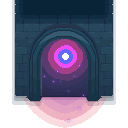
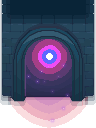
Testing texture re-scaling

diff --git a/obstacles.cpp b/obstacles.cpp
@@ -28,8 +28,8 @@ void Obstacles::LoadTextures()
 bool Obstacles::IsPositionValid(int x, int y, const Grid& grid) const
 {
     if (x < 0 || y < 0 ||
-        x + OBSTACLES_PADDING > Grid::GetWidth() ||
-        y + OBSTACLES_PADDING > Grid::GetHeight())
+        x + OBSTACLES_PADDING + OBSTACLES_PADDING > Grid::GetWidth() ||
+        y + OBSTACLES_PADDING + OBSTACLES_PADDING > Grid::GetHeight())
     {
         return false;
     }
@@ -168,6 +168,8 @@ void Obstacles::DrawObstacles() const
         float screenY = obstacle.y * Cell::CELL_SIZE;
 
         Vector2 position = { screenX, screenY };
+
+        SetTextureFilter(obstacleTextures[obstacle.textureId], TEXTURE_FILTER_POINT);
         DrawTextureEx(obstacleTextures[obstacle.textureId], position, 0, 2.0f, WHITE);
     }
 }

diff --git a/include/enemySpawner.h b/include/enemySpawner.h
@@ -16,10 +16,11 @@ class Enemy;
 class EnemySpawner
 {
 private:
-    static constexpr int ENEMY_SPAWNER_SIZE { 4 };
+    static constexpr int ENEMY_SPAWNER_SIZE { 3 };
     static constexpr int ENEMY_SPAWNER_VALUE_ID { 10 };
-    static constexpr float ENEMY_SPAWNER_INTERVAL { 3.0f }; // Every X seconds
-    static constexpr float SPAWN_POINT_X { 2 };
+    static constexpr float ENEMY_SPAWNER_INTERVAL { 5.0f }; // Every X seconds
+
+    static constexpr float SPAWN_POINT_X { 1 };
     static constexpr float SPAWN_POINT_Y { 3 };
 
     Texture2D texture { 0 };

diff --git a/include/grid.h b/include/grid.h
@@ -9,8 +9,8 @@ class Grid
 {
 private:
     static constexpr int MAX_GRID_TEXTURES { 11 };
-    static constexpr int GRID_WIDTH { 25 };
-    static constexpr int GRID_HEIGHT { 17 };
+    static constexpr int GRID_WIDTH { 21 };
+    static constexpr int GRID_HEIGHT { 15 };
 
     void CheckBounds(int x, int y) const;
     void DrawCell(int id, int x, int y) const;

diff --git a/grid.cpp b/grid.cpp
@@ -62,6 +62,7 @@ void Grid::DrawCell(int id, int x, int y) const
         Vector2 position = { static_cast<float>(x), static_cast<float>(y) };
 
         // art 32x, render at 2x size
+        SetTextureFilter(textures[id], TEXTURE_FILTER_POINT);
         DrawTextureEx(textures[id], position, 0, 2.0f, WHITE);
     }
 }

diff --git a/spire.cpp b/spire.cpp
@@ -36,6 +36,8 @@ void Spire::Draw() const
         float screenY = gridY * Cell::CELL_SIZE;
 
         Vector2 position = { screenX, screenY };
+
+        SetTextureFilter(texture, TEXTURE_FILTER_POINT);
         DrawTextureEx(texture, position, 0, 2.0f, WHITE);
     }
 }

diff --git a/enemy.cpp b/enemy.cpp
@@ -58,6 +58,7 @@ void Enemy::Draw() const
         Vector2 position = { screenX, screenY };
 
         // 32x, 38y ( bad but works)
+        SetTextureFilter(texture, TEXTURE_FILTER_POINT);
         DrawTextureEx(texture, position, 0, 2.0f, WHITE);
     }
 }

diff --git a/enemySpawner.cpp b/enemySpawner.cpp
@@ -70,6 +70,7 @@ void EnemySpawner::DrawSpawner() const
         auto screenY = static_cast<float>(gridY * Cell::CELL_SIZE);
 
         Vector2 position = { screenX, screenY };
+
         DrawTextureEx(texture, position, 0, 2.0f, WHITE);
     }
 }

diff --git a/include/cell.h b/include/cell.h
@@ -5,7 +5,7 @@ struct Cell
 {
     int spriteId { 0 };
     int valueId { 0 };
-    static constexpr int CELL_SIZE { 64 };
+    static constexpr double CELL_SIZE { 64 };
 };
 
 #endif //CELL_H
